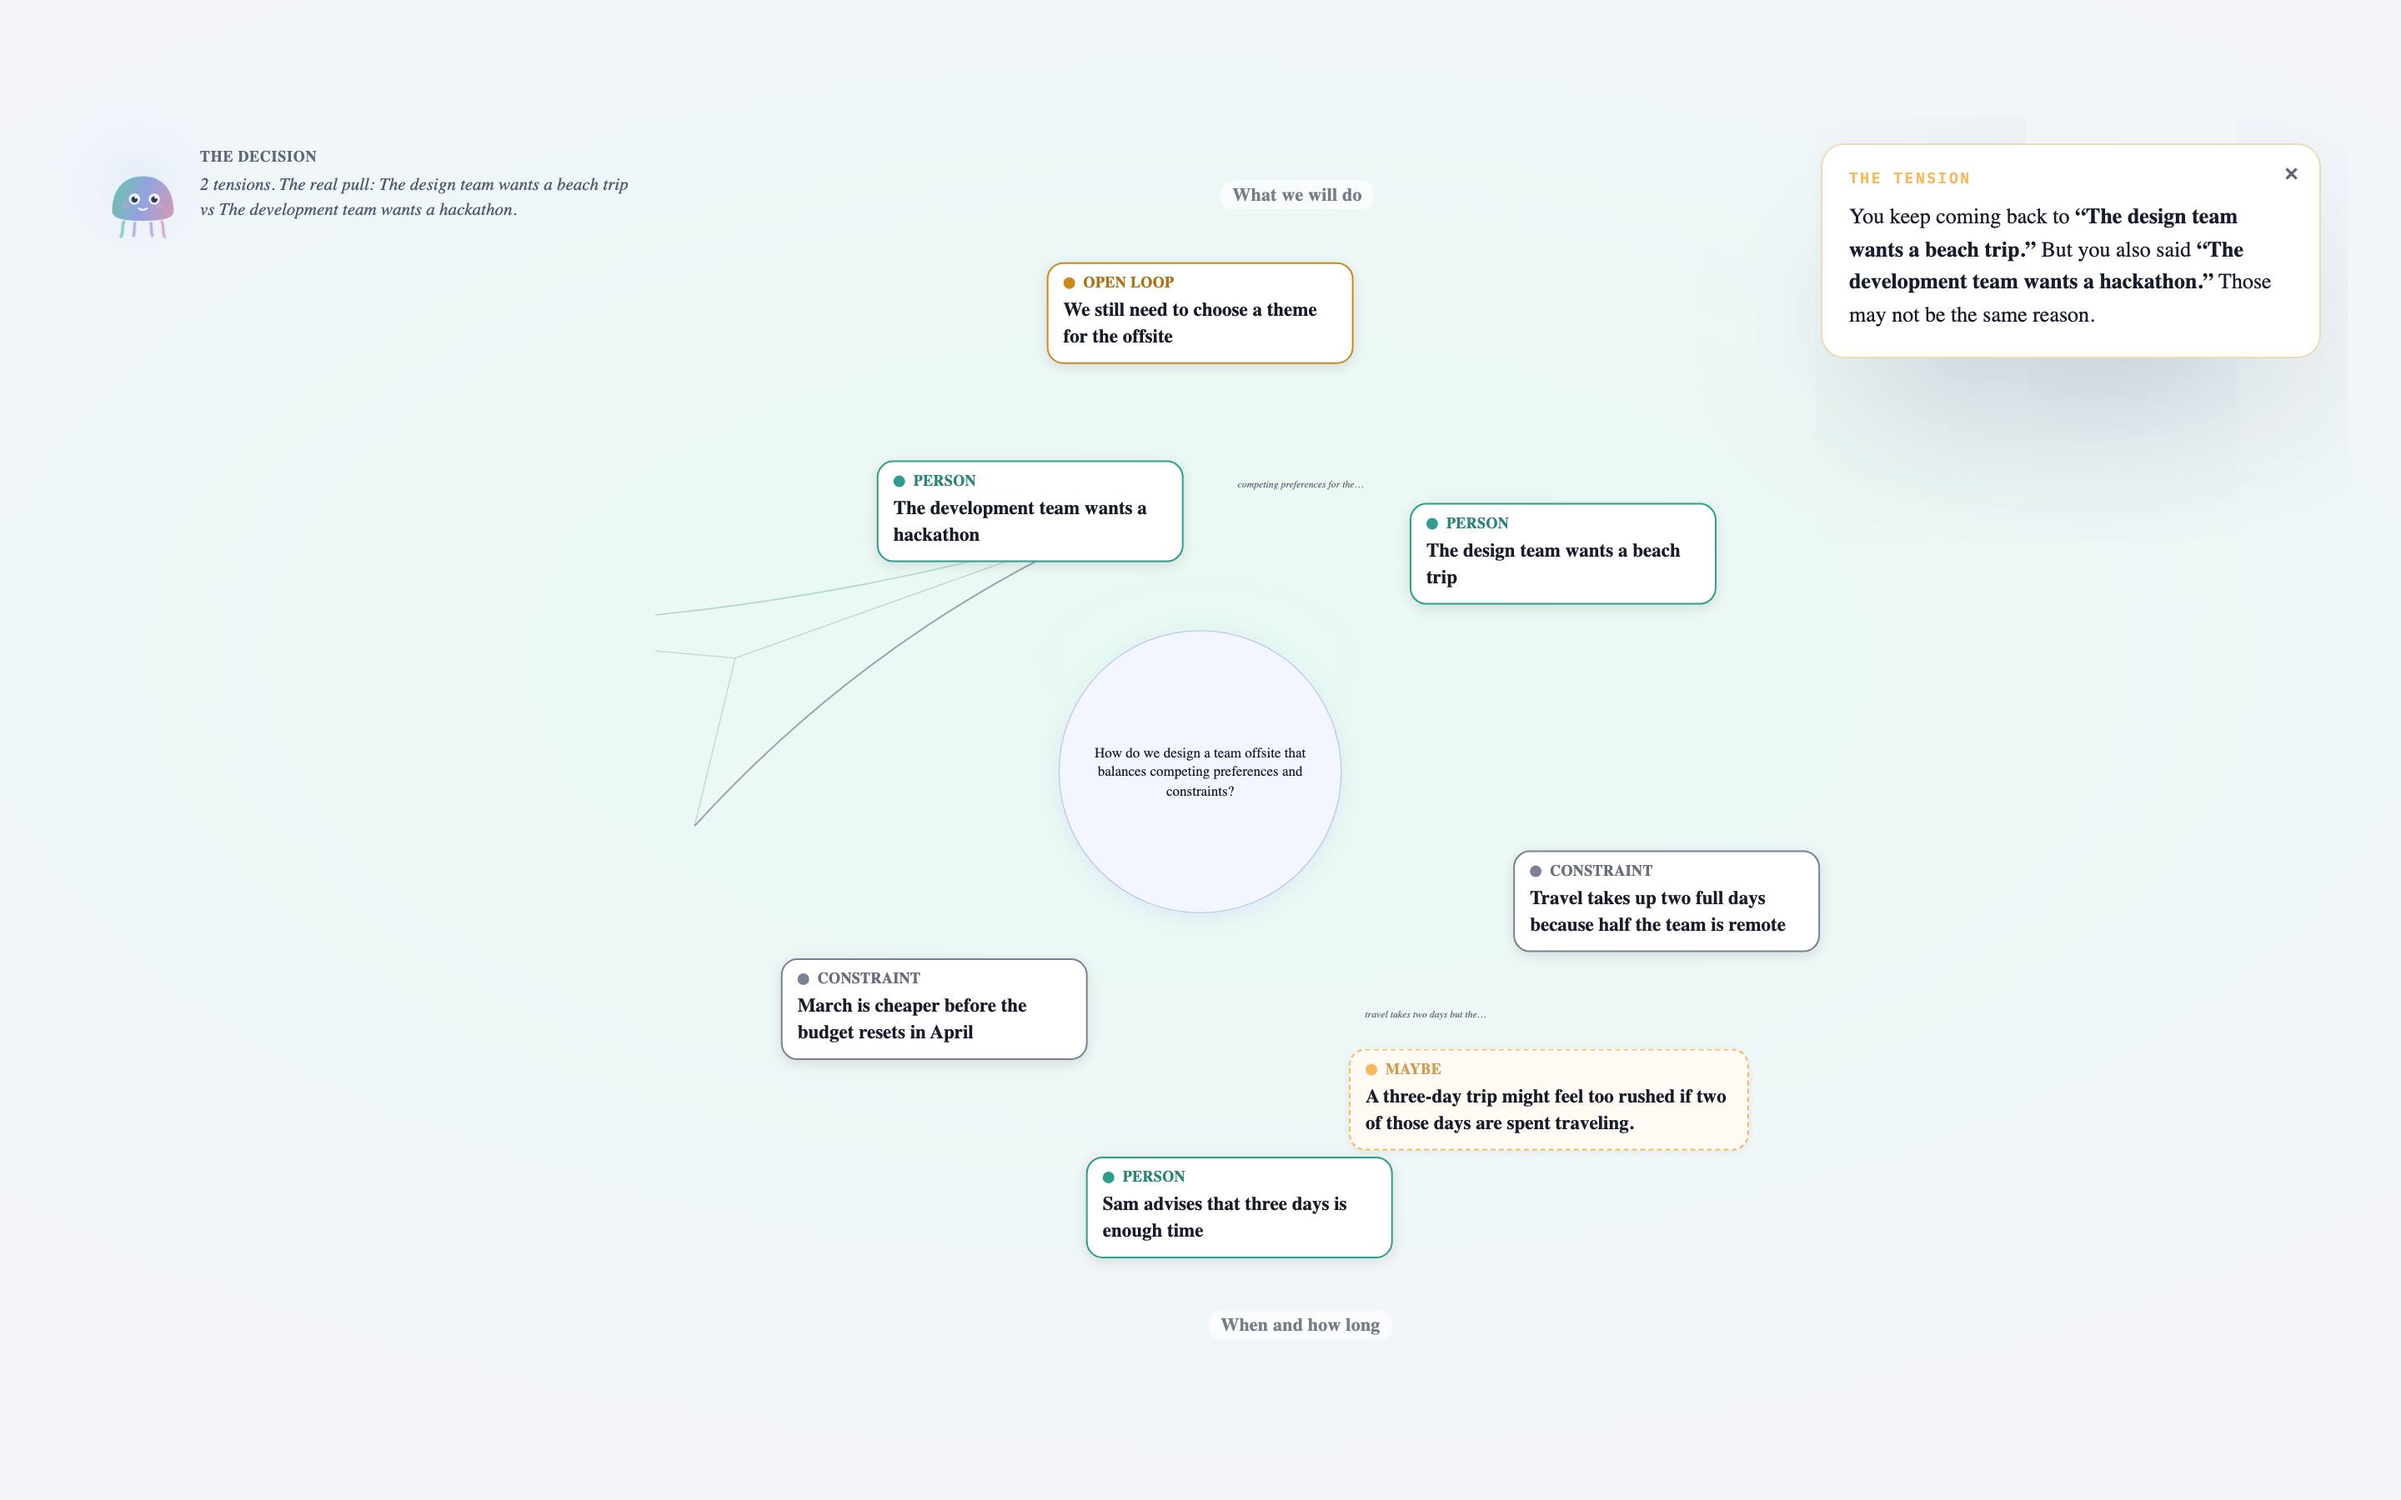
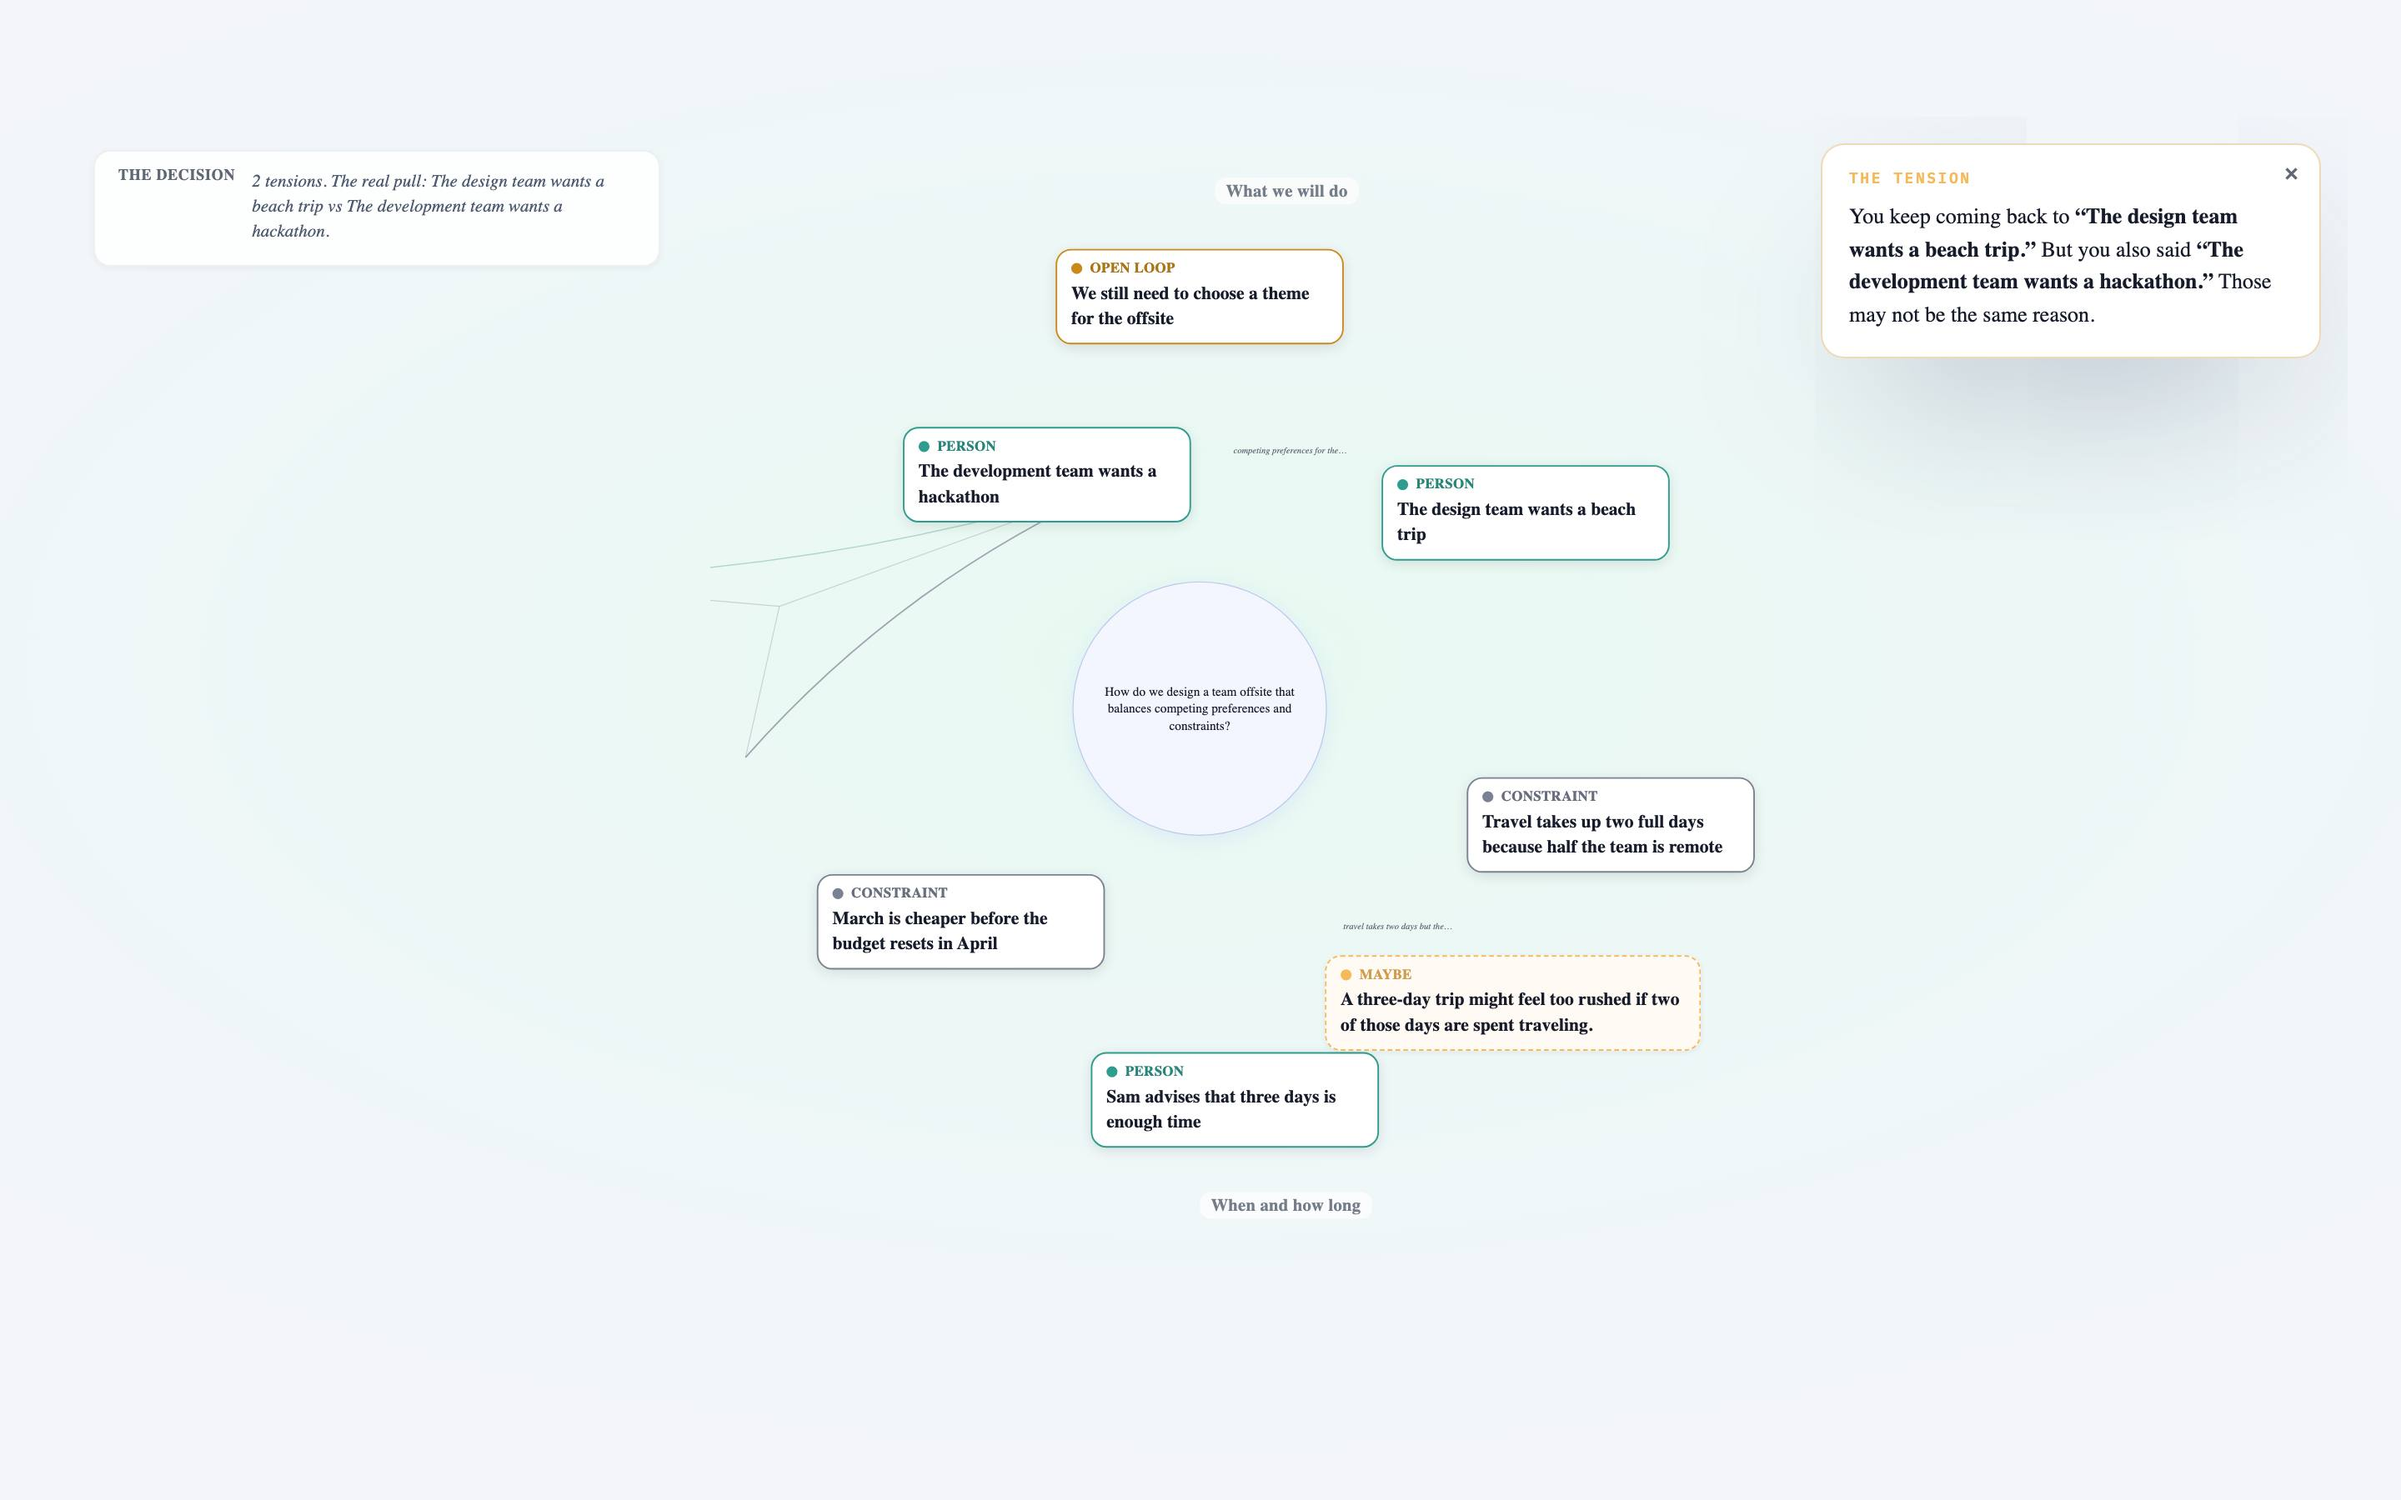
fix(mindshape): one Mavéa on screen, and a heading that belongs to something
Two jellies were on screen at once, a few pixels apart: the map drew its own
docked orb while the app's real face was already sitting in the topbar's brand
slot. The codebase's own rule is that there is never more than one — so on
settle the map now drops its face entirely and lets the brand slot hold it,
which is exactly what Live does when a canvas takes over. While listening the
map keeps its centred face: there it IS the thing being talked to.

That left the settled heading as two lines of bare text floating on the field.
It gets a card.

The README swaps Ripple's impact map for the voice scrubber — the spoken track
drawn as a waveform you can drag, with the canvas un-building to whatever had
been said by that moment. Ripple already has a tile; a second one spent a slot
on the same feature.

diff --git a/src/canvas/blocks/diagrams/mindShapeLayout.ts b/src/canvas/blocks/diagrams/mindShapeLayout.ts
@@ -80,8 +80,15 @@ function separate(
   // Taller below: that is where the centre's own text lives (see CENTER_STACK_BELOW).
   const keepoutBelow = docked ? HUB_KEEPOUT_Y : keepoutAbove + CENTER_STACK_BELOW;
   for (let iteration = 0; iteration < 400; iteration++) {
-    for (const id of ids) {
+    for (const [index, id] of ids.entries()) {
       const point = positions.get(id)!;
+      // A point sitting EXACTLY on the centre has no direction to be pushed in — hypot(0,0) falls
+      // back to 1, the keep-out test passes, and the card stays on the face forever. Give it one.
+      if (point.x === CX && point.y === CY) {
+        const angle = (index / Math.max(1, ids.length)) * 2 * Math.PI;
+        point.x = CX + Math.cos(angle);
+        point.y = CY + Math.sin(angle);
+      }
       const dx = point.x - CX;
       const dy = point.y - CY;
       const keepoutY = dy >= 0 ? keepoutBelow : keepoutAbove;
@@ -232,14 +239,18 @@ export function computeLayout(
       labels.push({ id: group.id, label: group.label, x: centerX, y: centerY });
     }
     const memberCount = group.members.length;
-    // A one-card theme IS its centre — orbiting a single member around an invisible point threw
-    // stragglers (an unclustered thought, a theme with one card) hundreds of units into empty space,
-    // where they read as unrelated to the map rather than part of it.
+    // A one-card theme IS its centre, so its member sits ON that centre rather than orbiting an
+    // invisible point — which used to fling stragglers into empty space. Except when that centre is
+    // the MAP's centre (a single theme, ring radius 0): there the face and its text live, so the
+    // lone card still needs the ring, or it lands squarely on the jelly.
+    const soloRadius = Math.max(KEEPOUT + 150, 230 + memberCount * 26);
     const memberRadius =
       memberCount <= 1
-        ? 0
+        ? single
+          ? soloRadius
+          : 0
         : single
-          ? Math.max(KEEPOUT + 150, 230 + memberCount * 26)
+          ? soloRadius
           : Math.min(220, 110 + memberCount * 16);
     const centroid: MindShapePoint = { x: centerX, y: centerY };
     group.members.forEach((atom, index) => {

diff --git a/src/canvas/blocks/diagrams/MindShape.tsx b/src/canvas/blocks/diagrams/MindShape.tsx
@@ -675,13 +675,15 @@ export function MindShape({
       <div className="ms-center">
         {/* Signal chip: transient Mavéa reaction above the face during listening */}
         {currentSignal && phase !== 'settled' && <SignalChip signal={currentSignal} />}
-        {/* Settled: the docked face wears the same chibi silhouette Live's corner orb does. Its
-            APPEARANCE only (ms-orb, mindshape.css) — borrowing Live's `.presence-layer.corner`
-            class brought that layer's own positioning with it and parked the face in the middle of
-            the map it had just stepped out of. */}
-        <div className={docked ? 'ms-center-pip-wrap ms-orb' : 'ms-center-pip-wrap'}>
-          <Presence state={presenceState} emotion="neutral" gaze="center" />
-        </div>
+        {/* One jelly, ever. While listening, the face is the centre of the map — the thing being
+            talked to. On settle it steps aside, and the app's own face has already docked into the
+            topbar's brand slot (.face-homed), so drawing another here would put two Mavéas on
+            screen a few pixels apart. The heading stays; the face is upstairs. */}
+        {!docked && (
+          <div className="ms-center-pip-wrap">
+            <Presence state={presenceState} emotion="neutral" gaze="center" />
+          </div>
+        )}
         <div className="ms-center-label" aria-hidden="true">
           {settledCenterLabel}
         </div>

diff --git a/tests/mindshape-surface.test.tsx b/tests/mindshape-surface.test.tsx
@@ -488,6 +488,29 @@ describe('computeLayout', () => {
     }
   });
 
+  it('never leaves a card sitting on the face', () => {
+    // Two ways this happened: a single-member theme placed at its group centre — which for one
+    // theme IS the map's centre — and a point exactly on the centre having no direction for the
+    // keep-out to push it in (hypot(0,0) falls back to 1, so the test passed and the card stayed).
+    for (const n of [1, 2, 3]) {
+      const { positions } = computeLayout(mkAtoms(n));
+      for (const [id, p] of positions) {
+        expect(
+          Math.hypot(p.x - CX, p.y - CY),
+          `card ${id} sits on the face at n=${n}`,
+        ).toBeGreaterThan(160);
+      }
+    }
+    // …and with a lone atom in its own theme beside a crowded one.
+    const clusters = [
+      { id: 'c1', label: 'Most of it', atomIds: ['a0', 'a1'], weight: 2 },
+      { id: 'c2', label: 'Alone', atomIds: ['a2'], weight: 1 },
+    ];
+    for (const [id, p] of computeLayout(mkAtoms(3), clusters).positions) {
+      expect(Math.hypot(p.x - CX, p.y - CY), `card ${id} sits on the face`).toBeGreaterThan(160);
+    }
+  });
+
   it('keeps a lone thought with the map instead of exiling it', () => {
     // An unclustered atom, or a theme holding one card, used to orbit an invisible group centre —
     // landing hundreds of units out in empty space, reading as unrelated to everything else.

diff --git a/src/styles/top-bar.css b/src/styles/top-bar.css
@@ -141,15 +141,7 @@
 .mavea-app.live-voice:not(.face-homed):not(.in-wizard) .brand-dot {
   opacity: 0;
 }
-/* …except while Watch Me Think is up — including when the app still counts as face-homed. There
-   the real face has docked into the MAP's own corner (the move Live makes when a canvas takes
-   over), so the brand slot it would otherwise fill is empty and the wordmark reads as a bare
-   "Mavéa" with nothing beside it. The placeholder mini-jelly is the mark again for the duration;
-   the two are never the same face in the same place. */
-.mavea-app.watch-thinking .brand-dot,
-.mavea-app.watch-thinking.face-homed .brand-dot {
-  opacity: 1;
-}
+
 .brand-name {
   font-size: 16px;
 }

diff --git a/src/canvas/blocks/diagrams/mindshape.css b/src/canvas/blocks/diagrams/mindshape.css
@@ -328,6 +328,13 @@
   left: 24px;
   top: 20px;
   transform: none;
+  /* A card, not loose type. With the face gone upstairs to the brand slot, the heading was two
+     lines of bare text floating on the field with nothing to belong to. */
+  padding: 10px 14px 12px;
+  border-radius: var(--r-sm);
+  background: color-mix(in oklab, var(--surface-elevated) 88%, transparent);
+  border: 1px solid var(--line-soft, var(--line));
+  box-shadow: 0 1px 4px rgba(0, 0, 0, 0.05);
   /* Orb in its own column, the heading stacked beside it — so the dock reads as one object rather
      than a face with a paragraph hanging off the bottom. */
   display: grid;

diff --git a/README.md b/README.md
@@ -98,7 +98,7 @@ Ten moments from the walkthrough and the recorded sessions. Every one replays wi
     <td width="20%" valign="top"><img width="168" src="docs/media/canvas-view.jpg" alt="The same answer opened as a spatial canvas, cards connected by drawn links" /><br /><sub><b>The same answer as a board.</b> Laid out in space, with the relationships drawn between them.</sub></td>
     <td width="20%" valign="top"><img width="168" src="docs/media/trip-plan.jpg" alt="A day trip drawn as a route map with numbered stops beside an hour-by-hour plan" /><br /><sub><b>It picks the right form.</b> A route becomes a map; a day becomes an hour-by-hour plan.</sub></td>
     <td width="20%" valign="top"><img width="168" src="docs/media/think-map.jpg" alt="Thoughts spoken out loud, sorted into themes and threads with the tension between two of them named" /><br /><sub><b>Think out loud first.</b> A ramble sorts itself into themes — and it names the tension you missed.</sub></td>
-    <td width="20%" valign="top"><img width="168" src="docs/media/impact-map.jpg" alt="A code change at the centre of a map, with labelled edges to what it changes, calls, covers and migrates" /><br /><sub><b>A change, followed out.</b> What it touches, what it breaks, the safest order to ship it.</sub></td>
+    <td width="20%" valign="top"><img width="168" src="docs/media/voice-scrub.jpg" alt="A settled answer with its spoken track drawn as a waveform, above the card being narrated" /><br /><sub><b>Scrub the voice.</b> Drag the spoken track and the canvas un-builds to what had been said.</sub></td>
   </tr>
   <tr>
     <td width="20%" valign="top"><img width="168" src="docs/media/doc-prism.jpg" alt="A NASA technical report read claim by claim, each finding highlighted on the real scanned page" /><br /><sub><b>A document, claim by claim.</b> Every finding highlighted on the real page it came from.</sub></td>
